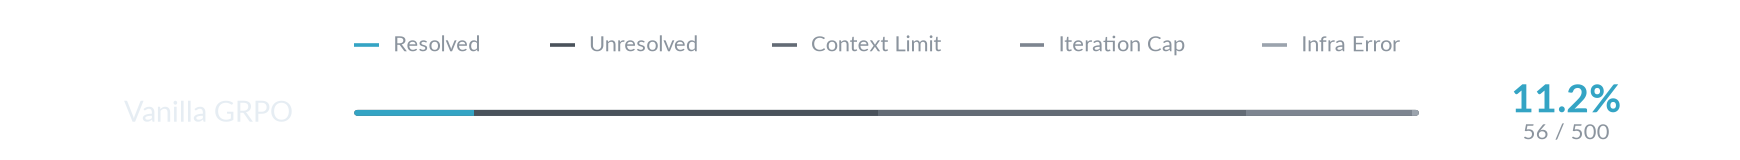
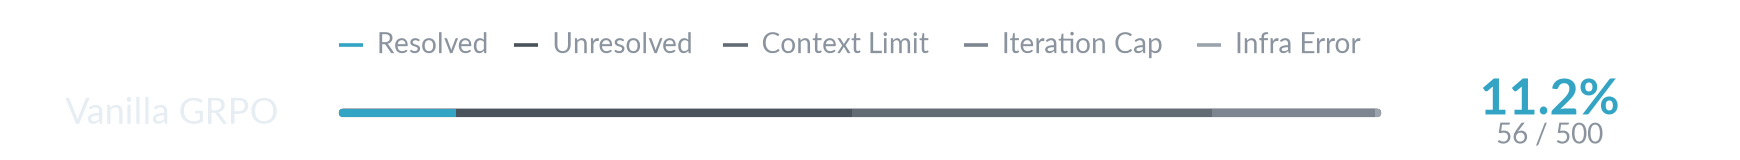
docs: 更新 README 实验结果图表及其生成脚本

diff --git a/README_EN.md b/README_EN.md
@@ -8,7 +8,7 @@
 
 <p align="center"><a href="README.md">中文</a> | EN</p>
 
-<p align="center"><i>Reinforcement learning for verifiable software-engineering agents.</i></p>
+<p align="center"><i>Reinforcement learning for software-engineering agents with verifiable rewards.</i></p>
 
 <p align="center">
   <a href="LICENSE"><img src="https://img.shields.io/badge/license-MIT-blue.svg" alt="MIT License"></a>
@@ -19,18 +19,16 @@
   <a href="https://github.com/SWE-bench/SWE-bench"><img src="https://img.shields.io/badge/evaluation-SWE--bench%20Verified-6f42c1.svg" alt="Evaluated on SWE-bench Verified"></a>
 </p>
 
-SieteRL trains software-engineering agents to fix real bugs with GRPO reinforcement learning.
+SieteRL is a GRPO post-training project for software-engineering agents. The initial policy is SWE-Gym OpenHands-7B-Agent, an SFT checkpoint of Qwen2.5-Coder-7B. The agent fixes repository-level bugs through multi-turn interaction in isolated containers; each submitted patch is scored by the task's executable tests, and the verifier outcome is the reward. Trained policies are evaluated on SWE-bench Verified.
 
-Starting from Qwen2.5-Coder-7B (the SWE-Gym OpenHands-7B-Agent SFT policy), the agent repairs SWE-Gym tasks through multi-turn interaction in isolated containers, and real test results directly become the reward. The trained policy is evaluated on SWE-bench Verified.
-
-> [!CAUTION]
-> SieteRL is under active development. Project structure, APIs, and experimental configurations may change frequently.
+> [!NOTE]
+> SieteRL is under active development. Project structure, APIs, and experimental configurations may change.
 
 ## Core components
 
-**OpenHands scaffold** — a three-tool interaction protocol matching SWE-Gym OpenHands-7B-Agent. The agent runs commands via `execute_bash`, browses and edits the repository via `str_replace_editor`, and submits the current patch with `finish`, all inside isolated task containers. Training and SWE-bench Verified evaluation share the same prompts, tool parser, and multi-turn state machine.
+**OpenHands-compatible scaffold** — an in-repo implementation of the three-tool interaction protocol used by SWE-Gym OpenHands-7B-Agent. The agent runs commands via `execute_bash`, browses and edits the repository via `str_replace_editor`, and submits its patch with `finish`, all inside isolated task containers. Training and SWE-bench Verified evaluation share the same prompts, tool parser, and multi-turn state machine.
 
-**Liger Kernel** — training enables Liger Kernel through TRL by default, using a chunked loss to reduce the memory footprint of backpropagation for 32K-context, 7B LoRA GRPO. The configuration pins the compatible token-level importance sampling, and uses eager mode to avoid a known conflict between Torch 2.11 and Liger 0.8 on dynamic-shape recompilation.
+**Liger Kernel** — training enables Liger Kernel through TRL by default. Its chunked loss never materializes the full logits tensor, reducing the memory footprint of 32K-context, 7B LoRA GRPO training; importance-sampling correction is applied per token, since sequence-level weights vanish on long agent trajectories.
 
 ## Results
 
@@ -42,7 +40,7 @@ Starting from Qwen2.5-Coder-7B (the SWE-Gym OpenHands-7B-Agent SFT policy), the 
   </picture>
 </p>
 
-Outcome distribution on SWE-bench Verified (500 tasks, one rollout per task). Full experiment records: [docs/experiment_log.md](docs/experiment_log.md).
+Outcome distribution of the initial GRPO baseline on SWE-bench Verified (500 tasks, one rollout per task). These runs establish a pipeline baseline, not an algorithmic improvement; full records: [docs/experiment_log.md](docs/experiment_log.md).
 
 ## Reproduction
 
@@ -56,7 +54,8 @@ CUDA_VISIBLE_DEVICES=0,1 bash scripts/grpo.sh                 # start training
 CUDA_VISIBLE_DEVICES=0 bash scripts/eval.sh outputs/<run-id>  # requires EVAL_HARNESS_PYTHON
 ```
 
-> **Safety note:** the agent executes model-generated code. Only connect a dedicated, non-production Docker daemon.
+> [!WARNING]
+> The agent executes model-generated code. Only connect a dedicated, non-production Docker daemon.
 
 ## Project layout
 
